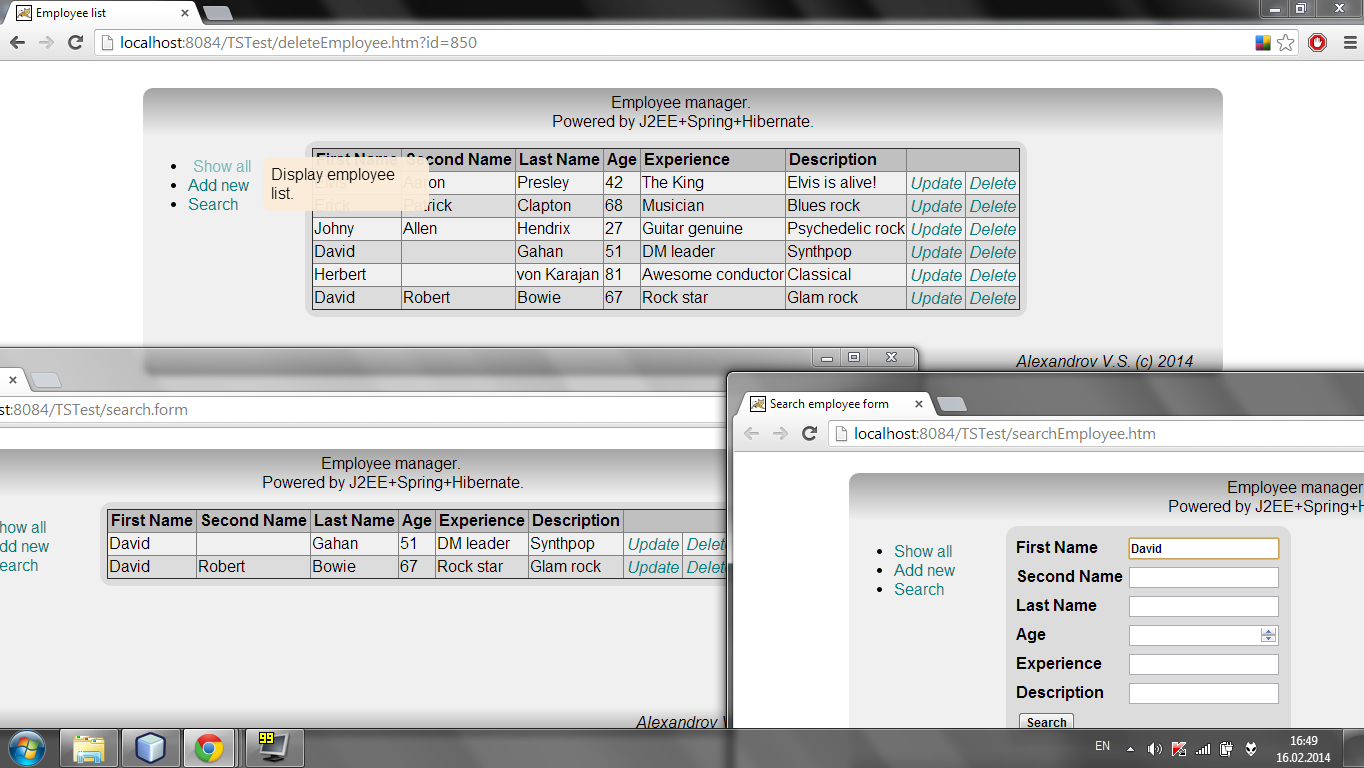
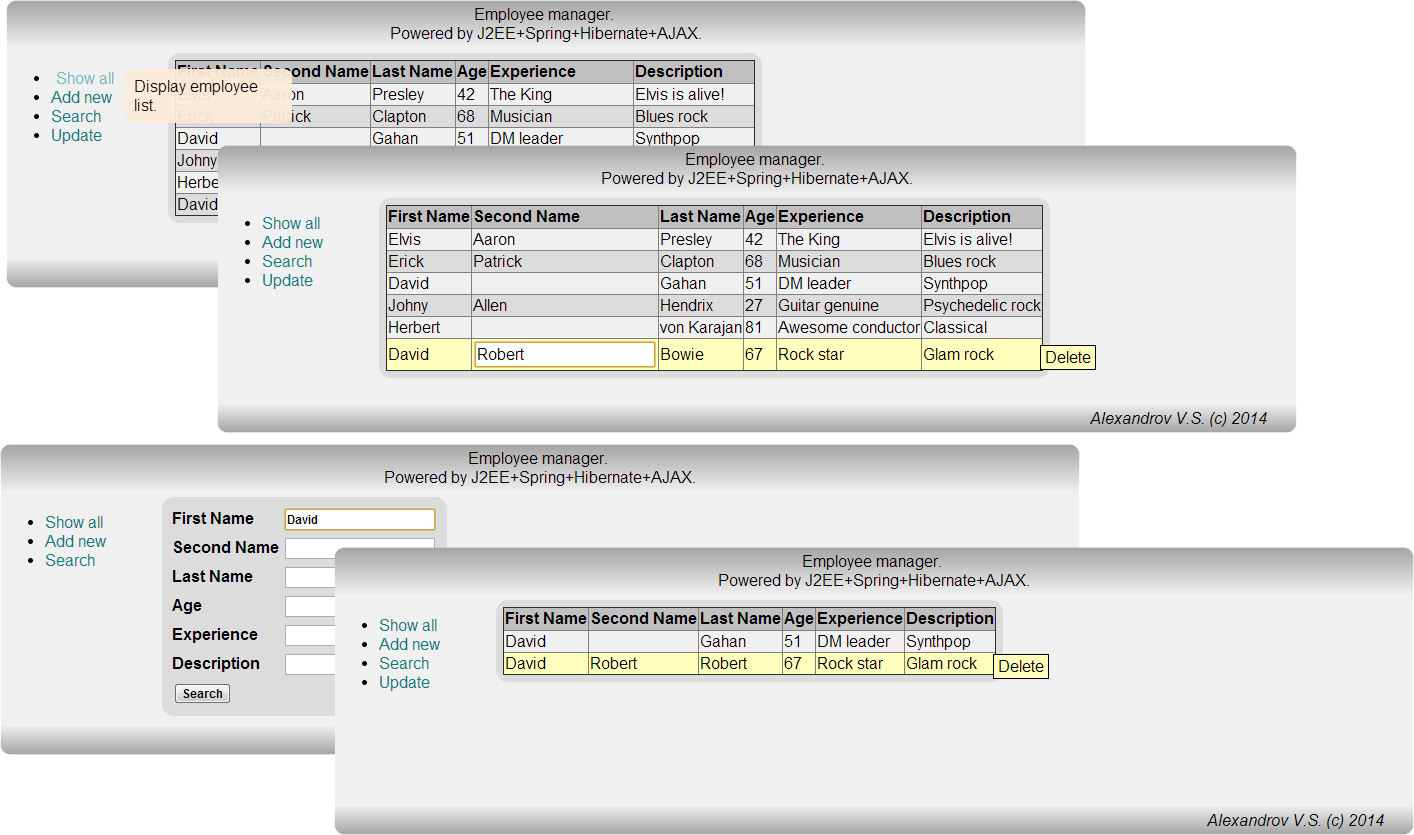
Third commit.

diff --git a/web/resources/js/generalJS.js b/web/resources/js/generalJS.js
@@ -1,7 +1,7 @@
 $(document).ready(function() {
     
+        //left bar tooltips
         $(".message").addClass("messageHide");
-    
         $("#lMenu li").hover(function(){
                 $(this).css({"cursor": "pointer"});
 		$(this).children("a").animate({"opacity":0.5,"margin-left":5},300);
@@ -10,4 +10,55 @@ $(document).ready(function() {
 		$(this).children("a").animate({"opacity":1,"margin-left":0},300);
                 $(this).children(".message").addClass("messageHide").removeClass("messageShow");
 	});
+        //end of left bar tooltips
+        
+        //table rows highlight and del button
+        $(".del").addClass("delHide");
+        
+        var $prevTColor = $("#empTable table tr td").css("background-color");
+        $("#empTable table tr:nth-child(1n+2)").hover( function(){
+            $(this).children("td").css({"background-color":"#FFFFBD"});
+            var $width = $(this).children("td:last").css("width");
+            var $top = $(this).children("td:last").css("top");
+            $(this).find("td .del").addClass("delShow").removeClass("delHide").css({"margin-left":$width,"top":($top+20)}).click(
+                    function(){
+                        var $id = $(this).closest("tr").children("#ID").html();
+                        //alert("id:"+$id);
+                        $.post(
+                            "./ajaxDel.htm",
+                            {
+                              id: $id
+                            } , function() { location.reload(); }
+                          );
+                    });
+        }, function(){
+            $(this).children("td").css({"background-color":$prevTColor});
+            $(this).find("td .del").addClass("delHide").removeClass("delShow");
+        });
+        //end of table rows highlight
+        
+        //table cells edit
+        $("#empTable table tr:nth-child(1n+2) td").dblclick(
+              function(){  
+                var $curVal = $(this).html(); 
+                var $id = $(this).parent().children("#ID").html();
+                var $column = $(this).closest('table').find('tr:nth-child(1) td').eq($(this).index()).html();
+                
+                $(this).html("<input type='text' class='edit' value='"+$curVal+"'></input>");
+                $(this).focus();
+                $(this).children(".edit").keypress(function(e) {
+                    if(e.which == 13) {
+                        $.post(
+                            "./ajaxUpd.htm",
+                            {
+                              id: $id,
+                              key: $column,
+                              value: $(this).closest(".edit").val()
+                            } , function() { location.reload(); }
+                          );
+                    }
+                });
+            }
+        );
+        //end of table cells edit
 });

diff --git a/web/resources/css/general.css b/web/resources/css/general.css
@@ -105,6 +105,7 @@
    
 #empTable tr:nth-child(1) {
     background: silver;
+    font-weight: bold;
    }    
    
 .message {
@@ -131,3 +132,26 @@
       opacity: 1;
       margin-left:0;
    }   
+   
+.edit {
+       max-width: available;
+   }   
+   
+.del {
+    position: absolute;    
+   }   
+   
+.delHide {
+     display: none;  
+   }
+   
+.delShow {
+     cursor: pointer;
+     display: block;  
+     background-color: #FFFFBD;
+     border: solid 1px;
+     //border-radius: 0 3px 3px 0;
+     padding: 2px;
+     text-align: center;
+     width: 50px;
+   }       

diff --git a/src/java/org/app/controller/EmployeeController.java b/src/java/org/app/controller/EmployeeController.java
@@ -115,6 +115,31 @@ public class EmployeeController {
         return show(model);
     }
     
+    @RequestMapping(value="/ajaxUpd",method=RequestMethod.POST)
+    public ModelAndView ajaxUpdate(String id, String key, String value){
+        key=key.toLowerCase();
+        key=key.replace(" ", "_");
+        Integer tempId = ValueChecker.checkInt(id);
+        if (tempId.intValue()== -1) return new ModelAndView("index");
+        try{
+            Employee emp = (Employee)empServImpl.searchEntity(null, null, null, null, null, null, tempId).get(0);
+
+            HashMap<String,String> update = new HashMap();
+            update.put("first_name", (key.equals("first_name")) ? value : emp.getFirst_name() );
+            update.put("second_name", (key.equals("second_name")) ? value : emp.getSecond_name() );
+            update.put("last_name", (key.equals("last_name")) ? value : emp.getLast_name() );     
+            update.put("age", (key.equals("age")) ? value : ""+emp.getAge() );
+            update.put("experience", (key.equals("experience")) ? value : emp.getExperience() );
+            update.put("description", (key.equals("description")) ? value : emp.getDescription() );
+
+            empServImpl.updateEntity(id, update);
+        } catch (Exception e) {
+            e.printStackTrace();
+            new ModelAndView("index");
+        }
+        return new ModelAndView("index");
+    }
+    
     //Done
     @RequestMapping(value="/deleteEmployee", method=RequestMethod.GET)
     public String delete(String id, Model model) throws SQLException{
@@ -126,4 +151,13 @@ public class EmployeeController {
         return show(model);
     }
 
+    @RequestMapping(value="/ajaxDel", method=RequestMethod.POST)
+    public ModelAndView ajaxDelete(String id) throws SQLException{
+        
+        Integer tempId = ValueChecker.checkInt(id);
+        if (tempId!=null)
+            empServImpl.deleteEntity(tempId);
+        
+        return new ModelAndView("index");
+    }
 }
